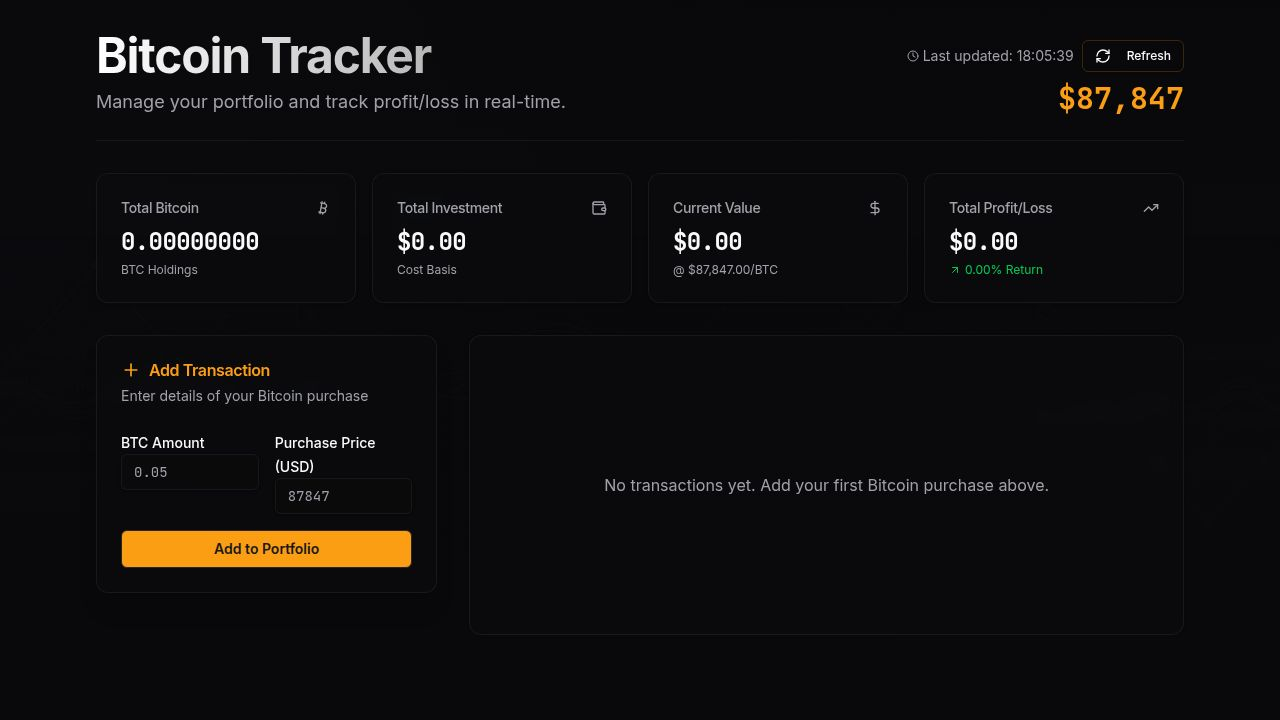
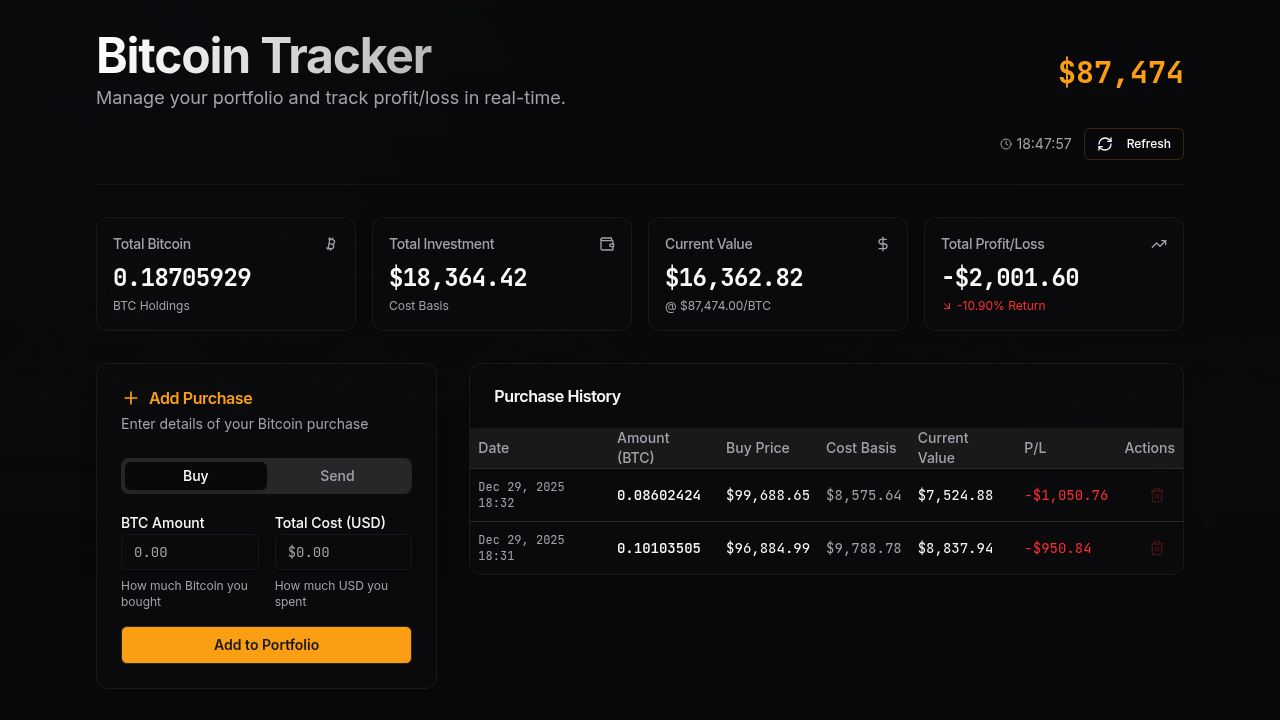
Add ability to record Bitcoin sent out from portfolio
Introduces a new transaction type 'send' to track BTC withdrawals, updating the form, list, and summary components.

Replit-Commit-Author: Agent
Replit-Commit-Session-Id: 2ec16550-a2cc-45c9-bf22-bdb240b86530
Replit-Commit-Checkpoint-Type: full_checkpoint
Replit-Commit-Event-Id: 8c10ac47-fd40-4bbf-b2c3-370b262f8a9d
Replit-Commit-Screenshot-Url: https://storage.googleapis.com/screenshot-production-us-central1/346c1539-b646-4f1a-bd95-f835218899cf/2ec16550-a2cc-45c9-bf22-bdb240b86530/IJviC7d
Replit-Helium-Checkpoint-Created: true

diff --git a/client/src/components/portfolio-list.tsx b/client/src/components/portfolio-list.tsx
@@ -1,8 +1,9 @@
-import { Transaction } from '@/lib/types';
+import { Transaction } from '@/hooks/use-portfolio';
 import { Table, TableBody, TableCell, TableHead, TableHeader, TableRow } from '@/components/ui/table';
 import { Button } from '@/components/ui/button';
 import { Card, CardContent, CardHeader, CardTitle } from '@/components/ui/card';
-import { Trash2, Calendar, TrendingUp, TrendingDown } from 'lucide-react';
+import { Badge } from '@/components/ui/badge';
+import { Trash2, Calendar, TrendingUp, TrendingDown, ArrowUpRight, ArrowDownLeft } from 'lucide-react';
 import { format } from 'date-fns';
 
 interface PortfolioListProps {
@@ -19,16 +20,23 @@ function MobileTransactionCard({ t, onRemove, currentPrice, formatCurrency }: {
 }) {
   const cost = t.amount * t.priceAtPurchase;
   const currentVal = currentPrice ? t.amount * currentPrice : 0;
-  const pl = currentVal - cost;
+  const pl = t.type === 'buy' ? currentVal - cost : 0;
   const isProfit = pl >= 0;
+  const isSend = t.type === 'send';
 
   return (
-    <Card className="border-border/50 bg-card/80 backdrop-blur-sm">
+    <Card className={`border-border/50 backdrop-blur-sm ${isSend ? 'bg-red-500/5' : 'bg-card/80'}`}>
       <CardContent className="p-4">
         <div className="flex justify-between items-start mb-3">
-          <div className="flex items-center gap-2 text-xs text-muted-foreground">
-            <Calendar className="h-3 w-3" />
-            {format(new Date(t.date), 'MMM dd, yyyy')}
+          <div className="flex items-center gap-2">
+            <Badge variant={isSend ? "destructive" : "default"} className="text-xs">
+              {isSend ? <ArrowUpRight className="h-3 w-3 mr-1" /> : <ArrowDownLeft className="h-3 w-3 mr-1" />}
+              {isSend ? 'Sent' : 'Buy'}
+            </Badge>
+            <span className="text-xs text-muted-foreground flex items-center gap-1">
+              <Calendar className="h-3 w-3" />
+              {format(new Date(t.date), 'MMM dd, yyyy')}
+            </span>
           </div>
           <Button 
             variant="ghost" 
@@ -44,29 +52,33 @@ function MobileTransactionCard({ t, onRemove, currentPrice, formatCurrency }: {
         <div className="grid grid-cols-2 gap-3">
           <div>
             <p className="text-xs text-muted-foreground">Amount</p>
-            <p className="font-mono font-semibold">{t.amount} BTC</p>
+            <p className="font-mono font-semibold">{isSend ? '-' : ''}{t.amount} BTC</p>
           </div>
           <div>
-            <p className="text-xs text-muted-foreground">Buy Price</p>
-            <p className="font-mono">{formatCurrency(t.priceAtPurchase)}</p>
+            <p className="text-xs text-muted-foreground">{isSend ? 'Price at Send' : 'Buy Price'}</p>
+            <p className="font-mono">{formatCurrency(t.priceAtPurchase)}/BTC</p>
           </div>
           <div>
-            <p className="text-xs text-muted-foreground">Cost Basis</p>
+            <p className="text-xs text-muted-foreground">{isSend ? 'Value Sent' : 'Cost Basis'}</p>
             <p className="font-mono text-muted-foreground">{formatCurrency(cost)}</p>
           </div>
-          <div>
-            <p className="text-xs text-muted-foreground">Current Value</p>
-            <p className="font-mono">{currentPrice ? formatCurrency(currentVal) : '...'}</p>
-          </div>
+          {!isSend && (
+            <div>
+              <p className="text-xs text-muted-foreground">Current Value</p>
+              <p className="font-mono">{currentPrice ? formatCurrency(currentVal) : '...'}</p>
+            </div>
+          )}
         </div>
         
-        <div className="mt-3 pt-3 border-t border-border/50 flex items-center justify-between">
-          <span className="text-xs text-muted-foreground">Profit/Loss</span>
-          <div className={`flex items-center gap-1 font-mono font-semibold ${isProfit ? 'text-green-500' : 'text-red-500'}`}>
-            {isProfit ? <TrendingUp className="h-4 w-4" /> : <TrendingDown className="h-4 w-4" />}
-            {currentPrice ? `${pl > 0 ? '+' : ''}${formatCurrency(pl)}` : '...'}
+        {!isSend && (
+          <div className="mt-3 pt-3 border-t border-border/50 flex items-center justify-between">
+            <span className="text-xs text-muted-foreground">Profit/Loss</span>
+            <div className={`flex items-center gap-1 font-mono font-semibold ${isProfit ? 'text-green-500' : 'text-red-500'}`}>
+              {isProfit ? <TrendingUp className="h-4 w-4" /> : <TrendingDown className="h-4 w-4" />}
+              {currentPrice ? `${pl > 0 ? '+' : ''}${formatCurrency(pl)}` : '...'}
+            </div>
           </div>
-        </div>
+        )}
       </CardContent>
     </Card>
   );
@@ -89,7 +101,7 @@ export function PortfolioList({ transactions, onRemove, currentPrice }: Portfoli
     <>
       {/* Mobile view - card list */}
       <div className="md:hidden space-y-3">
-        <h3 className="text-lg font-semibold mb-4">Purchase History</h3>
+        <h3 className="text-lg font-semibold mb-4">Transaction History</h3>
         {transactions.map((t) => (
           <MobileTransactionCard 
             key={t.id} 
@@ -104,17 +116,18 @@ export function PortfolioList({ transactions, onRemove, currentPrice }: Portfoli
       {/* Desktop view - table */}
       <Card className="hidden md:block border-border/50 bg-card/50 backdrop-blur-sm overflow-hidden">
         <CardHeader>
-          <CardTitle>Purchase History</CardTitle>
+          <CardTitle>Transaction History</CardTitle>
         </CardHeader>
         <CardContent className="p-0">
           <div className="overflow-x-auto">
             <Table>
               <TableHeader className="bg-muted/50">
                 <TableRow>
+                  <TableHead>Type</TableHead>
                   <TableHead>Date</TableHead>
                   <TableHead>Amount (BTC)</TableHead>
-                  <TableHead>Buy Price</TableHead>
-                  <TableHead>Cost Basis</TableHead>
+                  <TableHead>Price/BTC</TableHead>
+                  <TableHead>Total Value</TableHead>
                   <TableHead>Current Value</TableHead>
                   <TableHead>P/L</TableHead>
                   <TableHead className="text-right">Actions</TableHead>
@@ -124,22 +137,30 @@ export function PortfolioList({ transactions, onRemove, currentPrice }: Portfoli
                 {transactions.map((t) => {
                   const cost = t.amount * t.priceAtPurchase;
                   const currentVal = currentPrice ? t.amount * currentPrice : 0;
-                  const pl = currentVal - cost;
+                  const pl = t.type === 'buy' ? currentVal - cost : 0;
                   const isProfit = pl >= 0;
+                  const isSend = t.type === 'send';
 
                   return (
-                    <TableRow key={t.id} className="group hover:bg-muted/50 transition-colors">
+                    <TableRow key={t.id} className={`group hover:bg-muted/50 transition-colors ${isSend ? 'bg-red-500/5' : ''}`}>
+                      <TableCell>
+                        <Badge variant={isSend ? "destructive" : "default"} className="text-xs">
+                          {isSend ? 'Sent' : 'Buy'}
+                        </Badge>
+                      </TableCell>
                       <TableCell className="font-mono text-xs text-muted-foreground">
                         {format(new Date(t.date), 'MMM dd, yyyy HH:mm')}
                       </TableCell>
-                      <TableCell className="font-mono font-medium">{t.amount}</TableCell>
+                      <TableCell className={`font-mono font-medium ${isSend ? 'text-red-500' : ''}`}>
+                        {isSend ? '-' : '+'}{t.amount}
+                      </TableCell>
                       <TableCell className="font-mono">{formatCurrency(t.priceAtPurchase)}</TableCell>
                       <TableCell className="font-mono text-muted-foreground">{formatCurrency(cost)}</TableCell>
                       <TableCell className="font-mono">
-                        {currentPrice ? formatCurrency(currentVal) : '...'}
+                        {isSend ? '-' : (currentPrice ? formatCurrency(currentVal) : '...')}
                       </TableCell>
-                      <TableCell className={`font-mono ${isProfit ? 'text-green-500' : 'text-red-500'}`}>
-                        {currentPrice ? `${pl > 0 ? '+' : ''}${formatCurrency(pl)}` : '...'}
+                      <TableCell className={`font-mono ${isSend ? 'text-muted-foreground' : (isProfit ? 'text-green-500' : 'text-red-500')}`}>
+                        {isSend ? '-' : (currentPrice ? `${pl > 0 ? '+' : ''}${formatCurrency(pl)}` : '...')}
                       </TableCell>
                       <TableCell className="text-right">
                         <Button 

diff --git a/client/src/components/portfolio-form.tsx b/client/src/components/portfolio-form.tsx
@@ -1,3 +1,4 @@
+import { useState } from 'react';
 import { useForm } from 'react-hook-form';
 import { zodResolver } from '@hookform/resolvers/zod';
 import { z } from 'zod';
@@ -5,23 +6,26 @@ import { Button } from '@/components/ui/button';
 import { Input } from '@/components/ui/input';
 import { Card, CardContent, CardHeader, CardTitle, CardDescription } from '@/components/ui/card';
 import { Form, FormControl, FormField, FormItem, FormLabel, FormMessage } from '@/components/ui/form';
-import { Plus } from 'lucide-react';
+import { Tabs, TabsList, TabsTrigger } from '@/components/ui/tabs';
+import { Plus, ArrowUpRight } from 'lucide-react';
 
 const formSchema = z.object({
   amount: z.string().refine((val) => !isNaN(Number(val)) && Number(val) > 0, {
     message: "Amount must be a positive number",
   }),
-  price: z.string().refine((val) => !isNaN(Number(val)) && Number(val) > 0, {
-    message: "Price must be a positive number",
+  price: z.string().refine((val) => !isNaN(Number(val)) && Number(val) >= 0, {
+    message: "Cost must be a non-negative number",
   }),
 });
 
 interface PortfolioFormProps {
-  onAdd: (amount: number, price: number) => void;
+  onAdd: (type: 'buy' | 'send', amount: number, price: number) => void;
   currentPrice: number | null;
 }
 
 export function PortfolioForm({ onAdd, currentPrice }: PortfolioFormProps) {
+  const [txType, setTxType] = useState<'buy' | 'send'>('buy');
+  
   const form = useForm<z.infer<typeof formSchema>>({
     resolver: zodResolver(formSchema),
     defaultValues: {
@@ -31,23 +35,29 @@ export function PortfolioForm({ onAdd, currentPrice }: PortfolioFormProps) {
   });
 
   function onSubmit(values: z.infer<typeof formSchema>) {
-    onAdd(Number(values.amount), Number(values.price));
-    form.reset({ amount: "", price: currentPrice ? currentPrice.toString() : "" });
+    onAdd(txType, Number(values.amount), Number(values.price));
+    form.reset({ amount: "", price: "" });
   }
-
-  // Auto-fill price if available and field is empty (optional convenience)
-  // But let's keep it simple for now and let user type.
 
   return (
     <Card className="border-border/50 bg-card/50 backdrop-blur-sm shadow-xl">
       <CardHeader>
         <CardTitle className="flex items-center gap-2 text-primary">
-          <Plus className="h-5 w-5" />
-          Add Transaction
+          {txType === 'buy' ? <Plus className="h-5 w-5" /> : <ArrowUpRight className="h-5 w-5" />}
+          {txType === 'buy' ? 'Add Purchase' : 'Record Send'}
         </CardTitle>
-        <CardDescription>Enter details of your Bitcoin purchase</CardDescription>
+        <CardDescription>
+          {txType === 'buy' ? 'Enter details of your Bitcoin purchase' : 'Record Bitcoin you sent out'}
+        </CardDescription>
       </CardHeader>
       <CardContent>
+        <Tabs value={txType} onValueChange={(v) => setTxType(v as 'buy' | 'send')} className="mb-4">
+          <TabsList className="grid w-full grid-cols-2">
+            <TabsTrigger value="buy" data-testid="tab-buy">Buy</TabsTrigger>
+            <TabsTrigger value="send" data-testid="tab-send">Send</TabsTrigger>
+          </TabsList>
+        </Tabs>
+        
         <Form {...form}>
           <form onSubmit={form.handleSubmit(onSubmit)} className="space-y-4">
             <div className="grid grid-cols-1 md:grid-cols-2 gap-4">
@@ -67,7 +77,9 @@ export function PortfolioForm({ onAdd, currentPrice }: PortfolioFormProps) {
                         data-testid="input-btc-amount"
                       />
                     </FormControl>
-                    <p className="text-xs text-muted-foreground mt-1">How much Bitcoin you bought</p>
+                    <p className="text-xs text-muted-foreground mt-1">
+                      {txType === 'buy' ? 'How much Bitcoin you bought' : 'How much Bitcoin you sent'}
+                    </p>
                     <FormMessage />
                   </FormItem>
                 )}
@@ -77,7 +89,7 @@ export function PortfolioForm({ onAdd, currentPrice }: PortfolioFormProps) {
                 name="price"
                 render={({ field }) => (
                   <FormItem>
-                    <FormLabel>Total Cost (USD)</FormLabel>
+                    <FormLabel>{txType === 'buy' ? 'Total Cost (USD)' : 'Value at Send (USD)'}</FormLabel>
                     <FormControl>
                       <Input 
                         placeholder="$0.00" 
@@ -88,14 +100,21 @@ export function PortfolioForm({ onAdd, currentPrice }: PortfolioFormProps) {
                          data-testid="input-btc-price"
                       />
                     </FormControl>
-                    <p className="text-xs text-muted-foreground mt-1">How much USD you spent on this purchase</p>
+                    <p className="text-xs text-muted-foreground mt-1">
+                      {txType === 'buy' ? 'How much USD you spent' : 'USD value when you sent it'}
+                    </p>
                     <FormMessage />
                   </FormItem>
                 )}
               />
             </div>
-            <Button type="submit" className="w-full font-semibold" data-testid="button-add-transaction">
-              Add to Portfolio
+            <Button 
+              type="submit" 
+              className="w-full font-semibold" 
+              data-testid="button-add-transaction"
+              variant={txType === 'send' ? 'secondary' : 'default'}
+            >
+              {txType === 'buy' ? 'Add to Portfolio' : 'Record Send'}
             </Button>
           </form>
         </Form>

diff --git a/client/src/components/portfolio-summary.tsx b/client/src/components/portfolio-summary.tsx
@@ -1,5 +1,5 @@
 import { Card, CardContent, CardHeader, CardTitle } from '@/components/ui/card';
-import { Transaction } from '@/lib/types';
+import { Transaction } from '@/hooks/use-portfolio';
 import { ArrowUpRight, ArrowDownRight, Wallet, Bitcoin, DollarSign, TrendingUp } from 'lucide-react';
 import { motion } from 'framer-motion';
 
@@ -10,11 +10,20 @@ interface PortfolioSummaryProps {
 }
 
 export function PortfolioSummary({ transactions, currentPrice, isLoading }: PortfolioSummaryProps) {
-  const totalBTC = transactions.reduce((acc, t) => acc + t.amount, 0);
-  const totalInvestment = transactions.reduce((acc, t) => acc + (t.amount * t.priceAtPurchase), 0);
+  const buyTransactions = transactions.filter(t => t.type === 'buy');
+  const sendTransactions = transactions.filter(t => t.type === 'send');
+  
+  const totalBought = buyTransactions.reduce((acc, t) => acc + t.amount, 0);
+  const totalSent = sendTransactions.reduce((acc, t) => acc + t.amount, 0);
+  const totalBTC = totalBought - totalSent;
+  
+  const totalInvestment = buyTransactions.reduce((acc, t) => acc + (t.amount * t.priceAtPurchase), 0);
+  const totalSentValue = sendTransactions.reduce((acc, t) => acc + (t.amount * t.priceAtPurchase), 0);
+  const netInvestment = totalInvestment - totalSentValue;
+  
   const currentValue = currentPrice ? totalBTC * currentPrice : 0;
-  const profit = currentValue - totalInvestment;
-  const profitPercentage = totalInvestment > 0 ? (profit / totalInvestment) * 100 : 0;
+  const profit = currentValue - netInvestment;
+  const profitPercentage = netInvestment > 0 ? (profit / netInvestment) * 100 : 0;
 
   const isProfit = profit >= 0;
 
@@ -53,15 +62,15 @@ export function PortfolioSummary({ transactions, currentPrice, isLoading }: Port
         <StatCard 
           title="Total Bitcoin" 
           value={formatBTC(totalBTC)} 
-          subValue="BTC Holdings"
+          subValue={totalSent > 0 ? `${formatBTC(totalBought)} bought, ${formatBTC(totalSent)} sent` : "BTC Holdings"}
           icon={Bitcoin}
         />
       </motion.div>
       
       <motion.div initial={{ opacity: 0, y: 20 }} animate={{ opacity: 1, y: 0 }} transition={{ delay: 0.2 }}>
         <StatCard 
-          title="Total Investment" 
-          value={formatCurrency(totalInvestment)} 
+          title="Net Investment" 
+          value={formatCurrency(netInvestment)} 
           subValue="Cost Basis"
           icon={Wallet}
         />

diff --git a/client/src/hooks/use-portfolio.ts b/client/src/hooks/use-portfolio.ts
@@ -2,8 +2,9 @@ import { useState, useEffect } from 'react';
 import { useQuery, useMutation, useQueryClient } from '@tanstack/react-query';
 import { useToast } from '@/hooks/use-toast';
 
-interface Transaction {
+export interface Transaction {
   id: string;
+  type: 'buy' | 'send';
   amount: number;
   priceAtPurchase: number;
   date: string;
@@ -11,6 +12,7 @@ interface Transaction {
 
 interface ApiTransaction {
   id: string;
+  type?: string;
   amount: number;
   priceAtPurchase?: number;
   price_at_purchase?: number;
@@ -22,6 +24,7 @@ const COINGECKO_API = 'https://api.coingecko.com/api/v3/simple/price?ids=bitcoin
 function normalizeTransaction(t: ApiTransaction): Transaction {
   return {
     id: t.id,
+    type: (t.type as 'buy' | 'send') || 'buy',
     amount: Number(t.amount),
     priceAtPurchase: Number(t.priceAtPurchase ?? t.price_at_purchase ?? 0),
     date: t.date,
@@ -35,7 +38,7 @@ async function fetchTransactions(): Promise<Transaction[]> {
   return data.map(normalizeTransaction);
 }
 
-async function createTransaction(data: { amount: number; priceAtPurchase: number }): Promise<Transaction> {
+async function createTransaction(data: { type: string; amount: number; priceAtPurchase: number }): Promise<Transaction> {
   const res = await fetch('/api/transactions', {
     method: 'POST',
     headers: { 'Content-Type': 'application/json' },
@@ -69,9 +72,10 @@ export function usePortfolio() {
     mutationFn: createTransaction,
     onSuccess: (newTx) => {
       queryClient.invalidateQueries({ queryKey: ['transactions'] });
+      const action = newTx.type === 'buy' ? 'Bought' : 'Sent';
       toast({
         title: "Transaction Added",
-        description: `Added ${newTx.amount} BTC at $${newTx.priceAtPurchase.toLocaleString()}/BTC`
+        description: `${action} ${newTx.amount} BTC`
       });
     },
     onError: () => {
@@ -127,9 +131,9 @@ export function usePortfolio() {
     return () => clearInterval(interval);
   }, []);
 
-  const addTransaction = (amount: number, totalCost: number) => {
+  const addTransaction = (type: 'buy' | 'send', amount: number, totalCost: number) => {
     const priceAtPurchase = totalCost / amount;
-    createMutation.mutate({ amount, priceAtPurchase });
+    createMutation.mutate({ type, amount, priceAtPurchase });
   };
 
   const removeTransaction = (id: string) => {

diff --git a/shared/schema.ts b/shared/schema.ts
@@ -19,6 +19,7 @@ export type User = typeof users.$inferSelect;
 
 export const transactions = pgTable("transactions", {
   id: varchar("id").primaryKey().default(sql`gen_random_uuid()`),
+  type: text("type").notNull().default("buy"),
   amount: real("amount").notNull(),
   priceAtPurchase: real("price_at_purchase").notNull(),
   date: timestamp("date", { withTimezone: true }).notNull().defaultNow(),
